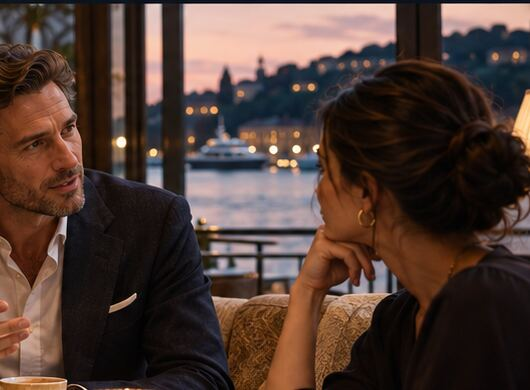
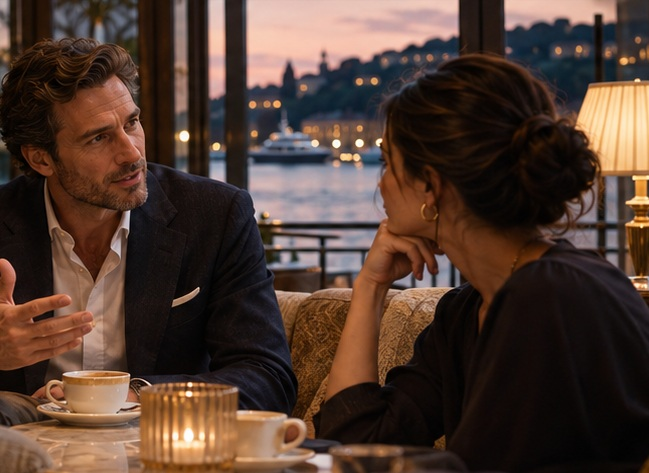
Match the finance, travel and career cards and restore the compact briefing

diff --git a/styles.css b/styles.css
@@ -1150,14 +1150,6 @@ html[data-theme=light] .james-shell .intel-strip>.briefing-wardrobe{background:#
 #jamesGuide p { line-height:1.5; }
 
 /* Magazine covers use live HTML text above independently cropped photographs. */
-.james-shell .perspective-revisit {
- background:linear-gradient(90deg,rgba(4,14,23,.92),rgba(4,14,23,.45) 67%,rgba(4,14,23,.07)),url(assets/lifestyle/travel.jpg) center 50%/cover;
- border:0; border-radius:14px; padding:clamp(20px,3.8vw,48px); min-height:175px;
- display:flex; flex-direction:column; justify-content:end; align-items:start; color:#fff7e8;
-}
-.james-shell .perspective-revisit h3,.james-shell .perspective-credit {color:#efd3a4}
-.james-shell .perspective-revisit-body {border:0;padding:0;max-width:44rem}
-.james-shell .perspective-revisit-body blockquote {color:#fff7e8;font:400 clamp(1.35rem,2.8vw,2.4rem)/1.18 Georgia,serif}
 .james-shell .magazine {max-width:1180px;width:100%;margin-inline:auto;padding:clamp(14px,2.7vw,34px);box-sizing:border-box}
 .magazine h2,.magazine h3,.magazine strong {font-family:Georgia,serif;font-weight:400}
 .magazine h2 {font-size:clamp(2.3rem,5vw,4.6rem);line-height:1.05;margin:0 0 .4em}
@@ -1200,26 +1192,15 @@ html[data-theme=light] .james-shell .intel-strip>.briefing-wardrobe{background:#
  .magazine .mag-tile,.mag-grid .mag-tile:nth-child(2){min-height:140px}
  .mag-book {grid-template-columns:1fr}
  .mag-book img {min-height:0;max-height:210px}
- .james-shell .perspective-revisit {min-height:145px}
 }
 .mag-story img {width:80px;height:60px;object-fit:cover;border-radius:6px}
 .mag-story>a {flex:1;min-width:min(12rem,100%)}
 #fitness .mag-columns>section:first-child {background:linear-gradient(90deg,#07111bef,#07111b75),url(assets/lifestyle/mobility.jpg) center/cover;color:#fff5e8;padding:1rem;border-radius:10px}
 #fitness .mag-columns>section:first-child h3,#fitness .mag-columns>section:first-child p {color:#fff5e8}
 #fitness .evidence-cover {background:linear-gradient(90deg,#07111bec,#07111b55),url(assets/lifestyle/journal.jpg) center/cover;color:#fff5e8;padding:2rem 1rem;border-radius:10px}
-.james-shell .briefing-sheet .compact-head {background:linear-gradient(90deg,#06121be6,#06121b36),url(assets/lifestyle/briefing.jpg) center/cover;padding:clamp(18px,3.2vw,40px);border-radius:12px}
-.james-shell .briefing-sheet .compact-head h3 {color:#fff5df;font:400 clamp(2rem,4vw,3.6rem)/1.1 Georgia,serif}
 .mag-book {position:relative}
 .mag-book:not(.source-only)::after {content:"";position:absolute;right:0;bottom:0;width:22px;height:22px;background:linear-gradient(135deg,transparent 45%,#d0bfa3 49%,#fff3d9 80%,#372d25 100%);pointer-events:none}
 
-#app #briefing .intel-card {
- --tile-scene:url(assets/lifestyle/eugene.jpg);
- --ink:#fff8ef;--muted:#f8eddf;
- background:linear-gradient(0deg,#061019f0,#07131da8 55%,#07131d60),var(--tile-scene) center/cover;color:var(--ink)
-}
-#app #briefing .mail-card {--tile-scene:url(assets/lifestyle/journal.jpg)}
-#app #briefing .intel-card[data-action-page=wardrobe] {--tile-scene:url(assets/lifestyle/wardrobe.jpg)}
-#app #briefing .intel-card[data-action-page=travel] {--tile-scene:url(assets/lifestyle/travel.jpg)}
 .workout-choices {display:grid;grid-template-columns:repeat(auto-fit,minmax(min(100%,220px),1fr));gap:1rem;margin:1rem 0}
 .magazine .workout-choices .workout-choice {display:flex;flex-direction:column;justify-content:flex-end;align-items:start;gap:.4rem;text-align:left;min-height:170px;padding:1.25rem;color:#fff6e9;background:linear-gradient(0deg,#071019ee,transparent),var(--photo) center/cover}
 .workout-choice strong {font-size:1.6rem}
@@ -1238,13 +1219,6 @@ html[data-theme=light] .james-shell .intel-strip>.briefing-wardrobe{background:#
 #app .mag-grid>.mag-tile:nth-last-child(-n+2) {grid-column:span 3;aspect-ratio:2.05}
 .mag-tile span em,.mag-tile span small {display:block;font-size:.58em;margin-top:.25em}
 .mag-tile span small {color:#efd29a}
-#app:has(#briefing.active) .greeting {border-radius:6px;background:linear-gradient(90deg,#051829bf,transparent),url(assets/lifestyle/terrace.jpg) center 55%/cover;padding:clamp(16px,3vw,35px);color:#fff7e9}
-#app:has(#briefing.active) .greeting :is(h2,p) {color:#fff7e9}
-#app .brief-lead .compact-head,#app .brief-lead .perspective-revisit {background:transparent;min-height:0;border:0;padding:0;margin:.2rem 0 .55rem}
-#app .brief-lead .compact-head h3 {font-size:1.5rem;color:var(--ink)}
-#app .brief-lead .perspective-revisit blockquote {font:1.15rem/1.35 Georgia,serif;color:var(--ink)}
-#app .brief-lead .perspective-credit {color:var(--gold)}
-#app .brief-lead {margin:0 0 1rem}
 #app .travel-feature {background:linear-gradient(90deg,#08111ee6,rgba(8,17,30,.53) 52%,transparent),url(assets/lifestyle/travel.jpg) center/cover;border-radius:6px;padding:clamp(18px,3vw,45px);min-height:clamp(240px,32vw,420px);color:#fff6e6}
 #app .travel-feature h2,#app .travel-feature h3 {color:#fff7e9}
 #app .edition-tabs {display:flex;gap:8px;flex-wrap:wrap;align-items:center}
@@ -1303,3 +1277,38 @@ html[data-theme=light] .james-shell .intel-strip>.briefing-wardrobe{background:#
  #app .mag-book #bookPage {padding:12px}
  #app .mag-book h3 {font-size:1.25rem}
 }
+#app #briefing .intel-card,#app .edition .photo-panel,#app .magazine .mag-tile {box-sizing:border-box;border:1px solid #ab8c59;border-radius:6px;overflow:hidden;background-clip:padding-box}
+#app #briefing .intel-card {background:var(--panel,#122336)}
+#app #briefing .intel-card[data-action-page=wardrobe],#app #briefing .intel-card[data-action-page=travel] {background:linear-gradient(0deg,#071421ef,rgba(7,20,33,.58)),var(--card-art) center/cover padding-box;color:#fff7ed;--ink:#fff7ed;--muted:#f3eadb}
+#app #briefing [data-action-page=wardrobe]{--card-art:url(assets/lifestyle/wardrobe.jpg)}
+#app #briefing [data-action-page=travel]{--card-art:url(assets/lifestyle/travel.jpg)}
+#app .edition .money-cover {display:block;border:0;border-radius:5px;min-height:clamp(175px,21vw,285px);padding:clamp(18px,3vw,38px);color:#fff5e5;background:linear-gradient(90deg,#081420 13%,#081420b3 42%,transparent 72%),url(assets/lifestyle/finance.jpg) right 56%/cover}
+#app .money-cover h2,#app .money-cover p {color:inherit}
+.money-cover small {font-style:italic;color:#ebd3a8}
+.money-grid {display:grid;grid-template-columns:1fr 1fr;gap:8px;margin:8px 0 14px}
+#app .money-grid section {background:linear-gradient(120deg,#152431,#0b1726);color:#fff4e4;border:1px solid #857450;border-radius:6px;padding:clamp(12px,1.6vw,24px)}
+#app .money-grid h3 {color:inherit;font-size:clamp(1.1rem,2vw,1.65rem);margin:0 0 .55em}
+.money-grid dl {margin:0}
+.money-grid dl div,.bill-meta,.spend-breakdown li {display:flex;align-items:center;justify-content:space-between;gap:.45rem}
+.money-grid dl div {padding:.48rem 0;border-top:1px solid #79674466}
+.money-grid dd {margin:0;font:1.3rem Georgia,serif}.bill-meta {font-size:.88rem}.bill-meta span {border-radius:1em;background:#dabb7b;color:#1e1a12;padding:.15em .65em}
+.spend-breakdown {display:flex;align-items:center;gap:clamp(8px,2vw,24px)}
+.spend-wheel {display:grid;place-items:center;flex:0 0 auto;width:clamp(72px,8vw,120px);aspect-ratio:1;border-radius:50%;background:conic-gradient(#d5af6c 0 39%,#929c76 39% 59%,#aa7e72 59% 77%,#7f8ea1 77%)}
+.spend-wheel strong {display:grid;place-content:center;text-align:center;width:71%;height:71%;border-radius:50%;background:#112031;color:#fff4dc!important;font-size:1.14rem}.spend-wheel small {font:italic .55rem Georgia}
+.spend-breakdown ul {flex:1;margin:0;padding:0;font-size:.85rem}.spend-breakdown li {margin:.25em 0}.spend-breakdown li b {margin-left:auto}
+.spend-breakdown li::before {content:'';width:7px;height:7px;border-radius:50%;background:#d5af6c}.spend-breakdown li:nth-child(2)::before {background:#929c76}.spend-breakdown li:nth-child(3)::before {background:#aa7e72}.spend-breakdown li:nth-child(4)::before {background:#7f8ea1}
+#app #growth .lead-panel {background-color:#17201e;background-image:linear-gradient(90deg,#101b1af5 0%,#101b1adb 18%,transparent 55%),var(--photo);background-size:100% 100%,auto 100%;background-position:left,right center;background-repeat:no-repeat;min-height:clamp(210px,25vw,360px)}
+#app #growth .lead-panel h3 {margin:0 0 clamp(15px,3vw,52px);font-size:clamp(1.8rem,3.5vw,3.2rem);max-width:10ch}
+#app #savePractice {border:1px solid #c5a065;background:#111a1cdf;color:#fbeed6;display:inline-flex;align-items:center;gap:6px}
+#app #growth .edition-tabs {display:grid;grid-template-columns:repeat(3,1fr);gap:4px}
+#app #growth .edition-tabs button {min-width:4.5rem;border-radius:6px;border:1px solid #89724a}
+#app #growth .edition-tabs [aria-pressed=true] {background:#ad8447;color:#fff}
+#app .career-box button {display:grid;grid-template-columns:auto 1fr auto;align-items:center;gap:.6rem;border:1px solid #877450;background:#142432;color:#f6ead6}
+.doc-paper {box-sizing:border-box;display:block;width:38px;height:51px;padding:5px 3px;background:repeating-linear-gradient(0deg,#b9ad96 0 1px,transparent 1px 4px) center 68%/68% 40% no-repeat,#e4d8bc;color:#383325;font:7px Georgia;text-align:left}
+#app #tripPlaces .mag-tile {aspect-ratio:1.25;align-items:end;padding:clamp(9px,1.4vw,20px);border-radius:3px}
+#app #tripPlaces .mag-tile span {width:100%;font-size:clamp(1.25rem,2.8vw,2.25rem)}
+#app #tripPlaces small {font:italic clamp(.8rem,1.2vw,1.05rem)/1.3 Georgia,serif;display:block;padding-right:1.25rem;color:#fff3dd;margin-top:5px}
+#tripPlaces i {position:absolute;bottom:10px;right:8px;font-style:normal;color:#e8c685;border:1px solid #c6a56a;border-radius:50%;padding:0 .18rem}
+.route-stops {padding:.38rem 0;border-block:1px solid #af96616b;font:1.05rem Georgia,serif}
+#app #travelCards a.trip-link small {background:#c09858;color:#191b19;border-radius:4px;padding:.42em .9em}
+@media(max-width:600px){.money-grid {grid-template-columns:1fr}#app #tripPlaces {grid-template-columns:1fr}#app #tripPlaces .mag-tile {aspect-ratio:2.8}#app .career-box button {width:100%}}

diff --git a/index.html b/index.html
@@ -120,7 +120,7 @@
   <section id="briefing" class="page active">
     <div class="sheet briefing-sheet">
 
-      <div class="brief-lead"><div class="sheet-head compact-head">
+      <div class="sheet-head compact-head">
         <div>
           <h3>Your Daily Briefing</h3>
         </div>
@@ -133,7 +133,7 @@
             <span id="perspectiveBriefAuthor"></span>
           </div>
         </div>
-      </section></div>
+      </section>
 <div class="intel-strip">
   <div class="intel-card">
     <svg class="intel-icon" viewBox="0 0 24 24" aria-hidden="true">
@@ -447,31 +447,15 @@
 </div>
 </section>
 <section class="page" id="finance">
-<div class="sheet magazine">
-<button class="mag-back" data-action-page="lifestyle">‹ Lifestyle</button>
-<div class="mag-cover" style="--photo:url(assets/lifestyle/finance.jpg)">
-<h2>Finance</h2>
-</div>
-<div class="mag-columns">
-<section>
-<h3>Accounts</h3>
-<p>Bank connections are planned.</p>
-<details>
-<summary>Preview accounts &amp; transactions</summary>
-<p>Example checking · $2,450<br>Example savings · $6,200</p>
-<p>Payroll +$1,250 · Groceries −$48 · Coffee −$6</p>
-</details>
-</section>
-<section>
-<h3>Credit cards</h3>
-<p>Card connections are planned.</p>
-<details>
-<summary>Preview a card statement</summary>
-<p>Example card · $180 statement balance · Due Dec 4</p>
-</details>
-</section>
-</div>
-<h3>Investing basics</h3>
+<div class="sheet magazine edition">
+<div class="edition-crumb"><b>James</b><button data-action-page="lifestyle">‹ Lifestyle</button><span>Finance</span></div>
+<header class="money-cover"><h2>Finance</h2><p>Your accounts, upcoming payments<br>and spending, in one clear view.</p><small>Sample data · Accounts aren’t connected</small></header>
+<div class="money-grid">
+<section><h3>Accounts</h3><dl><div><dt>Checking</dt><dd>$2,450</dd></div><div><dt>Savings</dt><dd>$6,200</dd></div></dl></section>
+<section><h3>Upcoming credit card payment</h3><dl><div><dt>Everyday card</dt><dd>$180</dd></div></dl><div class="bill-meta"><em>Statement balance</em><span>Due Dec 4</span></div></section>
+<section><h3>Recent transactions</h3><dl><div><dt>Coffee</dt><dd>−$6</dd></div><div><dt>Groceries</dt><dd>−$48</dd></div><div><dt>Payroll</dt><dd>+$1,250</dd></div></dl></section>
+<section><h3>Spending at a glance</h3><div class="spend-breakdown"><div class="spend-wheel"><strong>$742<small>Total spending</small></strong></div><ul><li>Groceries <b>39%</b></li><li>Dining &amp; coffee <b>20%</b></li><li>Home <b>18%</b></li><li>Other <b>23%</b></li></ul></div></section>
+</div><details class="finance-reading"><summary>Investing basics</summary>
 <details>
 <summary>Where should I start?</summary>
 <p>Write down the purpose of the money and when you expect to need it. Then compare services using the same balance. Ask what happens in a market decline, whether you can withdraw, and which decisions need your approval.</p>
@@ -496,15 +480,15 @@
 <p>Ask who makes the decisions, what the tool can access and who holds your money. Verify the firm’s registration independently. FINRA flags unregistered auto-trading services promising predictable high returns. <a href="https://brokercheck.finra.org/" target="_blank" rel="noopener noreferrer">Check a firm</a> · <a href="https://syndication.finra.org/content/know-risks-auto-trading-services-offered-unregistered-entities" target="_blank" rel="noopener noreferrer">Read the FINRA alert</a>
 </p>
 </details>
-<h3>Business headlines</h3>
+</details><details class="finance-reading"><summary>Business headlines</summary>
 <div data-feed="business">
-</div>
+</div></details>
 </div>
 </section>
 <section class="page" id="growth"><div class="sheet magazine edition"><div class="edition-crumb"><b>James</b><button data-action-page="lifestyle">‹ Lifestyle</button><span>Personal Development</span></div><div class="edition-title"><h2>Personal Development</h2><div class="edition-tabs" aria-label="Reading topics">
 <button data-topic="work" aria-pressed="true">Work</button><button data-topic="life" aria-pressed="false">Life</button><button data-topic="business" aria-pressed="false">Business</button></div></div>
-<div class="growth-top"><article class="photo-panel lead-panel" style="--photo:url(assets/lifestyle/development.jpg)"><div><h3><a href="https://ggia.berkeley.edu/practice/active_listening" target="_blank" rel="noopener noreferrer">Listen before responding</a></h3><button id="savePractice">Save for later</button></div></article>
-<aside class="career-box"><h3>Career folder</h3><button data-career="resume">Current résumé ›</button><button data-career="cover">Cover letter ›</button></aside></div>
+<div class="growth-top"><article class="photo-panel lead-panel" style="--photo:url(assets/lifestyle/development.jpg)"><div><h3><a href="https://ggia.berkeley.edu/practice/active_listening" target="_blank" rel="noopener noreferrer">Listen before responding</a></h3><button id="savePractice"><svg viewBox="0 0 16 19" width="14" height="16" aria-hidden="true"><path d="M2 1h12v16l-6-4-6 4z" fill="none" stroke="currentColor"/></svg> Save for later</button></div></article>
+<aside class="career-box"><h3>Career folder</h3><button data-career="resume"><span class="doc-paper" aria-hidden="true">Résumé</span><span>Current résumé</span><span aria-hidden="true">›</span></button><button data-career="cover"><span class="doc-paper" aria-hidden="true">Cover letter</span><span>Cover letter</span><span aria-hidden="true">›</span></button></aside></div>
 <h3 class="rule-title">Reading &amp; practice</h3>
 <div class="pair"><details class="photo-panel" style="--photo:url(assets/lifestyle/interview.jpg)"><summary>Prepare for an interview</summary><p>Choose one recent win. Write down the situation, your action and the result.</p></details>
 <details class="photo-panel" style="--photo:url(assets/lifestyle/reflection.jpg)"><summary>Make time for reflection</summary><p>What worked this week? What would you try differently next time?</p></details></div>
@@ -565,15 +549,15 @@
 <section><h3 class="rule-title">Places to see</h3><div class="mag-places" id="tripPlaces">
 <a class="mag-tile" href="https://www.eugenecascadescoast.org/" target="_blank" rel="noopener noreferrer">
 <img src="assets/lifestyle/eugene.jpg" alt="" loading="lazy">
-<span>Eugene</span>
+<span>Eugene<small>Riverside trails, local food and a gateway to Oregon’s outdoors.</small></span><i aria-hidden="true">→</i>
 </a>
 <a class="mag-tile" href="https://stateofwatourism.com/" target="_blank" rel="noopener noreferrer">
 <img src="assets/lifestyle/washington.jpg" alt="" loading="lazy">
-<span>Washington</span>
+<span>Washington<small>Evergreen forests, alpine lakes and Northwest mountain views.</small></span><i aria-hidden="true">→</i>
 </a>
 <a class="mag-tile" href="https://www.visitlasvegas.com/" target="_blank" rel="noopener noreferrer">
 <img src="assets/lifestyle/vegas.jpg" alt="" loading="lazy">
-<span>Las Vegas</span>
+<span>Las Vegas<small>Red rock trails and desert scenery just beyond the Strip.</small></span><i aria-hidden="true">→</i>
 </a>
 </div>
 </section>

diff --git a/tests/lifestyle-magazine.browser.test.js b/tests/lifestyle-magazine.browser.test.js
@@ -52,5 +52,20 @@ test('Lifestyle on iPad opens existing Wardrobe, saves a recipe across refresh, 
   assert.equal(await page.locator('#dailyWorkout').textContent(),'Mobility reset');
   await page.getByRole('button',{name:'View workout'}).click();
   assert.equal(await page.locator('#workoutMoves li').count(),3);
+  await page.setViewportSize({width:1180,height:820});
+  await page.evaluate(()=>window.jamesPageNow('finance'));
+  const financeCards=page.locator('#finance .money-grid > section');
+  assert.equal(await financeCards.count(),4);
+  const boxes=await financeCards.evaluateAll(cards=>cards.map(card=>card.getBoundingClientRect().top));
+  assert.equal(boxes[0],boxes[1]);
+  assert.ok(boxes[2]>boxes[1]);
+  assert.equal(boxes[2],boxes[3]);
+  if(process.env.JAMES_CARD_PREVIEWS){
+   fs.mkdirSync('card-previews',{recursive:true});
+   for(const screen of ['finance','growth','briefing','travel']){
+    await page.evaluate(screen=>window.jamesPageNow(screen),screen);
+    await page.locator('#'+screen).screenshot({path:'card-previews/'+screen+'.jpg',quality:70});
+   }
+  }
  }finally{await browser.close();}
 });

diff --git a/travel.js b/travel.js
@@ -98,6 +98,16 @@ function mountTravel({list, read, save}) {
       if(overnight)notes.push('Overnight in '+overnight[1]);
       if(pause)notes.push(pause[2]+' in '+pause[1]);
     }
+    const routeTitle=trip.title.match(/^(.+?)\s+to\s+(.+?)(?:\s+[·–-]\s+driving)?$/i);
+    if(routeTitle && trip.route){
+      const stops=[routeTitle[1]];
+      for(const stop of trip.stops){
+        const city=stop.match(/overnight\b[^.]{0,75}?\bin ([A-Z][a-z]+(?: [A-Z][a-z]+)*)/) || stop.match(/stop in ([A-Z][a-z]+(?: [A-Z][a-z]+)*) for \d+ hours?/i);
+        if(city && !stops.includes(city[1]))stops.push(city[1]);
+      }
+      if(!stops.includes(routeTitle[2]))stops.push(routeTitle[2]);
+      const route=tag('span',stops.join('  →  '));route.className='route-stops';link.append(route);
+    }
     if(notes.length)link.append(tag('span',notes.slice(0,2).join(' · ')));
     link.append(tag('small','Open itinerary →'));return link;
   }
